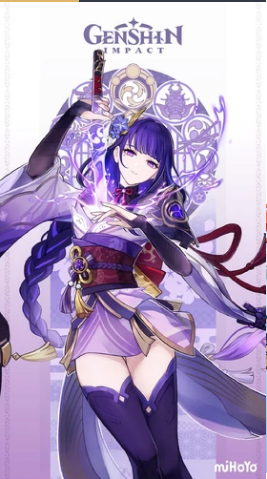
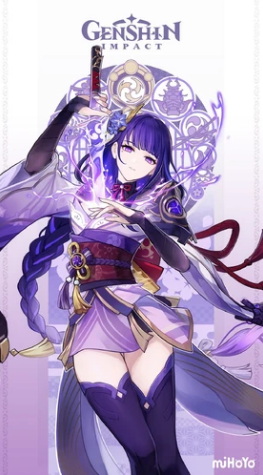
added card element and fixed paimon

diff --git a/src/App.jsx b/src/App.jsx
@@ -1,17 +1,48 @@
-import { useState } from 'react'
+import { createContext, useState } from 'react'
 import './App.css'
 import BackgroundMain from './components/BackgroundMain'
 import Controls from './components/Controls'
+import Paimon from './components/Paimon'
+import TitleStart from './components/TitleStart'
+import Card from './components/Card'
 
-function App() {
+export const StageContext = createContext()
+
+function App() {    
+
+    function getRandomIntInclusive(min, max) {
+        min = Math.ceil(min);
+        max = Math.floor(max);
+        return Math.floor(Math.random() * (max - min + 1) + min);
+    }
+    
+    function getRandomArray() {
+        let numbers = new Set()
+        while (numbers.size < 10) {
+        numbers.add(getRandomIntInclusive(0,24))
+        }
+        
+        return Array.from(numbers)
+    }
+    
+    
+    
+
+
+    const [stage, setStage] = useState("start")
+    
 
     return (
-    <>
+    <StageContext.Provider value={{stage, setStage}}>
         <BackgroundMain />
+        { (stage !== "start") && <Paimon />}
+        <div className="content">
+            <TitleStart />
+            <Card />
+        </div>
+        {console.log(getRandomArray())}
+    </StageContext.Provider>
     
-    </>
-
     )
 }
-
 export default App

diff --git a/src/App.css b/src/App.css
@@ -1,16 +1,26 @@
 * {
     margin:0;
     padding: 0;
+    box-sizing: border-box;
 }
 
-body{
-    background-color: black;
+.content {
+    position:relative;
+    z-index: 1;
+    width: 100vw;
+    height: 100vh;
 }
+
+/* BACKGROUND */
 
 .background-main-container {
-    width: 100vw;
-    height:83vh;
-    background-color: black;
+    position: fixed;
+    top: 0;
+    left: 0;
+    width: 100%;
+    height: 100%;
+    z-index: -1;
+
 }
 
 video {
@@ -21,8 +31,10 @@ video {
     z-index: -1;
 }
 
+/* TITLE LOGO */
+
 .logo {
-    position: absolute;
+    position: fixed;
     width: 100%;
     height: 100%;
     top: 0;
@@ -31,9 +43,12 @@ video {
     justify-content: center;
     align-items: center;
     
-    z-index: 1;
     /* transform: translateY(); */
 }
+.logo>img {
+    transform: scale(0.8);
+}
+
 
 .start-btn {
     background-color: transparent;
@@ -41,4 +56,9 @@ video {
     border: none;
     padding: 20px;
     cursor: pointer;
+    color:white;
+    font-family:'Lucida Sans', 'Lucida Sans Regular', 'Lucida Grande', 'Lucida Sans Unicode', Geneva, Verdana, sans-serif
 }
+
+/* PAIMON */
+

diff --git a/src/components/Card.jsx b/src/components/Card.jsx
@@ -1,0 +1,32 @@
+import { useState } from "react"
+import raiden from "../assets/characters/raiden.png"
+import '../styles/CardStyle.css'
+import backside from "/back-card.webp"
+
+function Card({ name, id, img }) {
+
+    const [isFlipped, setIsFlipped] = useState(true)
+    const toggleFlip = () => {
+        setIsFlipped(!isFlipped);
+    }
+
+    const cardClasses = `${isFlipped ? 'card-flipped card' : "card"}`
+
+    return (
+        <div className={cardClasses} onClick={toggleFlip}>
+            <div className="card-inner">
+                <div className="card-front">
+                    <img src={raiden} alt="raiden" />
+                    <div className="card-name">
+                        Raiden
+                    </div>
+                </div>
+                <div className="card-back">
+                    <img src={backside} alt="backside-card" />
+                </div>
+            </div>
+        </div>
+    )
+}
+
+export default Card

diff --git a/src/styles/CardStyle.css b/src/styles/CardStyle.css
@@ -1,0 +1,56 @@
+.card-front, .card-back {
+    width: 10vw;
+    background-color: transparent;
+}
+
+.card-front>img, .card-back>img {
+    width: 100%;
+    height: 100%;
+}
+
+.card-front {
+    border-radius: 10px;
+    padding: 10px;
+    background-color: #e7b358;
+}
+
+.card-front>img {
+    height: 90%;
+}
+
+.card-name {
+    text-align: center;
+    font-size: 1.1rem;
+    font-family:fantasy;
+}
+
+/* FLIP LOGIC */
+
+.card {
+    width: 10vw;
+    height:300px;
+    perspective: 1000px;
+}
+
+.card-inner {
+    position: relative;
+    width: 100%;
+    height: 100%;
+    text-align: center;
+    transition: transform 0.8s;
+    transform-style: preserve-3d;
+}
+
+.card-flipped .card-inner {
+    transform: rotateY(180deg);
+}
+
+.card-front, .card-back {
+    position: absolute;
+    -webkit-backface-visibility: hidden; /* Safari */
+    backface-visibility: hidden;
+}
+
+.card-back {
+    transform: rotateY(180deg);
+}

diff --git a/src/components/BackgroundMain.jsx b/src/components/BackgroundMain.jsx
@@ -1,30 +1,12 @@
 import React, { useState } from 'react'
 import genshinbg from "../assets/genshinHD60.mp4"
-import genshinlogo from "../assets/genshinlogo.png"
+
 
 function BackgroundMain() {
-
-    const [gameStarted, setGameStarted] = useState(false)
-    function handleLogoStart() {
-       setGameStarted(true)
-    }
-
-    const logoStyle = {
-        transition: "transform 1s",
-        transform: gameStarted ? "translateY(-36%)" : "translateY(0)"
-    }
-
+    
     return (
         <div className="background-main-container">
             <video src={genshinbg} autoPlay loop muted ></video>
-            <div className="logo" style={logoStyle}>
-                <img src={genshinlogo} alt="logo" />
-
-                {(!gameStarted) && 
-                <button onClick={handleLogoStart} className='start-btn'>CLICK TO BEGIN</button>
-                }
-
-            </div>
         </div>
     )
 }

diff --git a/src/components/TitleStart.jsx b/src/components/TitleStart.jsx
@@ -1,0 +1,31 @@
+import { useContext, useState } from "react"
+import genshinlogo from "../assets/genshinlogo.png"
+import { StageContext } from '../App.jsx';
+
+function TitleStart() {
+    const stage = useContext(StageContext).stage
+    const setStage = useContext(StageContext).setStage
+
+    
+    function handleLogoStart() {
+       setStage("ingame")
+    }
+
+    const logoStyle = {
+        transition: "transform 1s",
+        transform: (stage !== "start") ? "translateY(-40%)" : "translateY(0)"
+    }
+
+    return (
+        
+        <div className="logo" style={logoStyle}>
+            <img src={genshinlogo} alt="logo" />
+            {(stage === "start") &&
+                <button onClick={handleLogoStart} className='start-btn'>CLICK TO BEGIN</button>
+            }
+
+        </div>
+    )
+}
+
+export default TitleStart

diff --git a/src/styles/PaimonStyle.css b/src/styles/PaimonStyle.css
@@ -1,0 +1,38 @@
+@keyframes fadeInFromBottom {
+    0% {
+        transform: translateY(100%);
+        opacity: 0;
+    }
+    100% {
+        transform: translateY(0);
+        opacity: 1;
+    }
+}
+
+
+.paimon-container {
+    overflow: hidden;
+    position: fixed;
+    bottom: -10px;
+    left:-15px;
+    display:flex;
+    flex-direction: column;
+
+    animation: fadeInFromBottom 1s ease;
+
+}
+
+.paimon-container>pre {
+    padding-left:20px;
+    padding-bottom: 20px;
+    width: 200px;
+    text-wrap: wrap;
+    font-size: 1.1rem;
+    font-family: fantasy;
+    color: black;
+}
+
+.paimon {
+    width:100px;
+}
+

diff --git a/src/helperFunctions.js b/src/helperFunctions.js
@@ -1,0 +1,17 @@
+
+function getRandomIntInclusive(min, max) {
+    min = Math.ceil(min);
+    max = Math.floor(max);
+    return Math.floor(Math.random() * (max - min + 1) + min);
+}
+
+function getRandomArray() {
+    let numbers = new Set()
+    while (numbers.length < 10) {
+    numbers.push(getRandomIntInclusive(0,24))
+    }
+    return numbers
+}
+
+
+console.log(getRandomArray())

diff --git a/src/components/Paimon.jsx b/src/components/Paimon.jsx
@@ -1,0 +1,13 @@
+import "../styles/PaimonStyle.css"
+
+function Paimon() {
+
+  return (
+    <div className='paimon-container'>
+        <pre>Hello Traveler! To play, do not click on the same Character!  </pre>
+        <img className="paimon" src="/paimon.webp" alt="paimon" />
+    </div>
+  )
+}
+
+export default Paimon

diff --git a/src/components/CardDisplay.jsx b/src/components/CardDisplay.jsx
@@ -1,0 +1,17 @@
+
+function CardDisplay({}) {
+
+
+    return (
+        <div className="card-container">
+            {}
+
+
+
+        </div>
+
+
+  )
+}
+
+export default CardDisplay
